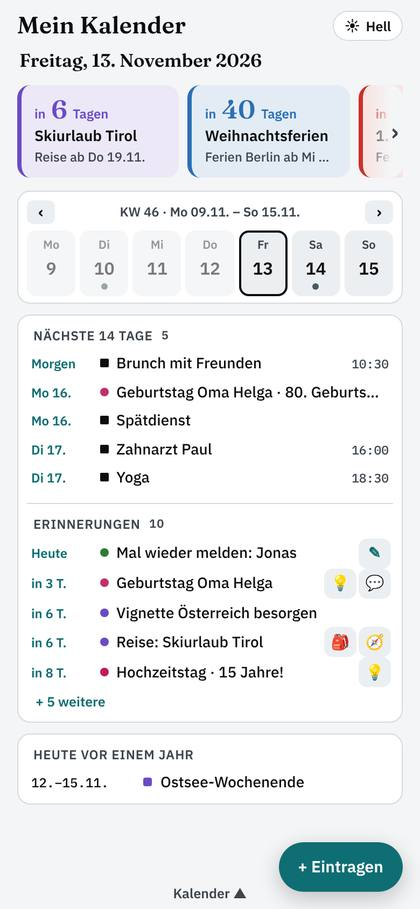
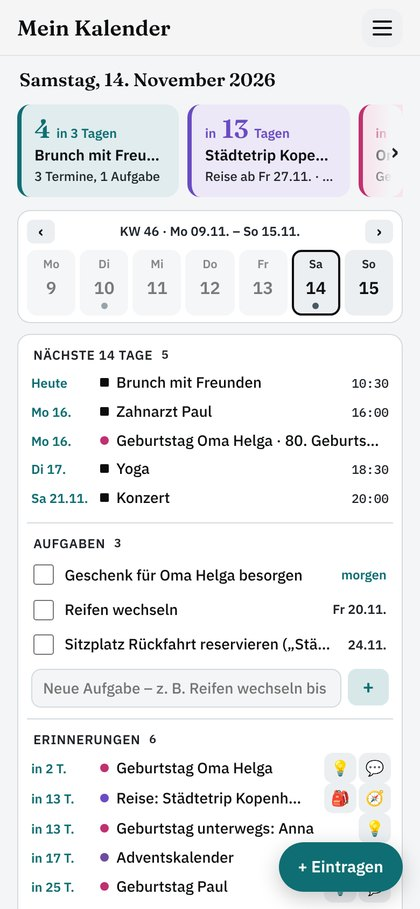
Landingpage: Dokumente, Packliste, Reise-Bündelung, 3-Tage-Blick, neue Bilder
Claude-Session: https://claude.ai/code/session_018b3gZuLjGyevCkhHLxS973

diff --git a/index.html b/index.html
@@ -133,9 +133,9 @@
 <section class="center">
   <h2>Alles, was sonst durchrutscht</h2>
   <div class="grid">
-    <article class="card"><div class="shot"><img src="img/heute.jpg" alt="Heute-Seite mit Countdowns, Aufgaben und Erinnerungen" loading="lazy"></div><div class="t"><span class="q">Jeden Morgen</span><h3>Ein Blick – alles im Griff</h3><p>Countdowns bis zum Urlaub, deine Woche, Aufgaben und was heute wichtig ist.</p></div></article>
+    <article class="card"><div class="shot"><img src="img/heute.jpg" alt="Heute-Seite mit Countdowns, Aufgaben und Erinnerungen" loading="lazy"></div><div class="t"><span class="q">Jeden Morgen</span><h3>Ein Blick – alles im Griff</h3><p>Was in den nächsten 3 Tagen ansteht, Countdowns bis Reise, Geburtstag, Urlaub und Ferien – dazu deine Woche und Aufgaben.</p></div></article>
     <article class="card"><div class="shot"><img src="img/assistent.jpg" alt="Nachricht wird zum Termin" loading="lazy" style="height:440px;object-position:0 60%"></div><div class="t"><span class="q">Text rein, Termin raus</span><h3>Kein Abtippen mehr</h3><p>Datum, Uhrzeit, Ort und Personen werden erkannt – auch aus kopierten Nachrichten.</p></div></article>
-    <article class="card"><div class="shot"><img src="img/reise.jpg" alt="Reise mit Hinweisen zu Vignette und Route" loading="lazy" style="height:440px;object-position:0 100%"></div><div class="t"><span class="q">Reisen</span><h3>Du trägst die Reise ein – er denkt an den Rest</h3><p>Vignette, Maut, Visum, Online-Check-in und Ausweise für die Kinder: rechtzeitig erinnert. Route mit einem Tipp.</p></div></article>
+    <article class="card"><div class="shot"><img src="img/dokumente.jpg" alt="Bahnticket wird ausgewertet: Packpunkte und Aufgaben werden vorgeschlagen" loading="lazy" style="height:440px;object-position:0 100%"></div><div class="t"><span class="q">Reisen</span><h3>Du trägst die Reise ein – er denkt an den Rest</h3><p>Tickets und Buchungen einfach anhängen – er liest Abfahrt, Sitzplatz und Check-in heraus und macht daraus To-dos und Packpunkte. Dazu Vignette, Visum und Ausweise: rechtzeitig erinnert.</p></div></article>
     <article class="card"><div class="shot"><img src="img/ueberblick.jpg" alt="Gemeinsame freie Zeiträume" loading="lazy"></div><div class="t"><span class="q">Gemeinsame Zeit</span><h3>Wann haben wir eigentlich beide frei?</h3><p>Freie Wochenenden, Ferien und Brückentage auf einen Blick – auch für zwei Bundesländer.</p></div></article>
   </div>
 </section>
@@ -150,7 +150,10 @@
   <div class="more">
     <div class="mf"><span class="ic">🎂</span><div><b>Geburtstage mit Vorlauf</b><span>Früher erinnert bei Kindern und runden Geburtstagen – mit „Was wünschst du dir?“ per WhatsApp.</span></div></div>
     <div class="mf"><span class="ic">🎁</span><div><b>Geschenke im Blick</b><span>Weihnachten, Ostern, Nikolaus: Ideen merken, Status sehen – offen, Idee, besorgt.</span></div></div>
-    <div class="mf"><span class="ic">🎒</span><div><b>Deine Packliste entsteht automatisch</b><span>Passend zu Reiseziel, Jahreszeit und Mitreisenden.</span></div></div>
+    <div class="mf"><span class="ic">🎒</span><div><b>Packliste, die mitdenkt</b><span>Fürs Abendessen nur das Nötigste, für die Reise alles – passend zu Ziel, Jahreszeit und ob Zug, Auto, Rad oder Flug.</span></div></div>
+    <div class="mf"><span class="ic">📎</span><div><b>Tickets &amp; Dokumente am Termin</b><span>PDFs und Fotos immer griffbereit – auch nach dem Termin wiederzufinden.</span></div></div>
+    <div class="mf"><span class="ic">🏨</span><div><b>Hotels &amp; Flüge gehören zur Reise</b><span>Aus Urlaub, Hotel in London und Wohnung in Edinburgh wird ein Balken: „Urlaub · London → Edinburgh“.</span></div></div>
+    <div class="mf"><span class="ic">⏳</span><div><b>Die nächsten 3 Tage auf einen Blick</b><span>Termine, Aufgaben und Erinnerungen zusammen – dazu Countdowns bis Reise, Geburtstag und Ferien.</span></div></div>
     <div class="mf"><span class="ic">✅</span><div><b>Aufgaben mit Frist</b><span>„Reifen wechseln bis Ende Oktober“ – wird erkannt und rechtzeitig angezeigt.</span></div></div>
     <div class="mf"><span class="ic">👥</span><div><b>Termine teilen</b><span>Mit Partner oder Familie – verschlüsselt, nur ihr seht sie.</span></div></div>
     <div class="mf"><span class="ic">📅</span><div><b>Mit Google Kalender</b><span>Deine Termine bleiben, wo sie sind – neue landen auf Wunsch auch dort.</span></div></div>
@@ -161,7 +164,7 @@
   <h2>In zwei Minuten startklar</h2>
   <div class="steps">
     <div class="step"><b>1</b><strong>Kostenloses Konto anlegen</strong>Mit E-Mail oder Google. Mein Kalender läuft über Claude von Anthropic – darüber sind deine Daten privat gespeichert.</div>
-    <div class="step"><b>2</b><strong>Google Kalender verbinden</strong>Du entscheidest, welche Kalender erscheinen. Geburtstage und Reisen werden übernommen.</div>
+    <div class="step"><b>2</b><strong>Google Kalender verbinden</strong>Du entscheidest, welche Kalender erscheinen. Geburtstage und Reisen werden übernommen. Geht auch ohne Google.</div>
     <div class="step"><b>3</b><strong>Bundesland &amp; Liebste</strong>Ferien und Feiertage stimmen sofort, wichtige Menschen werden vorgeschlagen – fertig.</div>
   </div>
   <div class="trust"><span>Deine Termine siehst nur du</span><span>Geteiltes ist verschlüsselt</span><span>Kostenlos</span></div>
